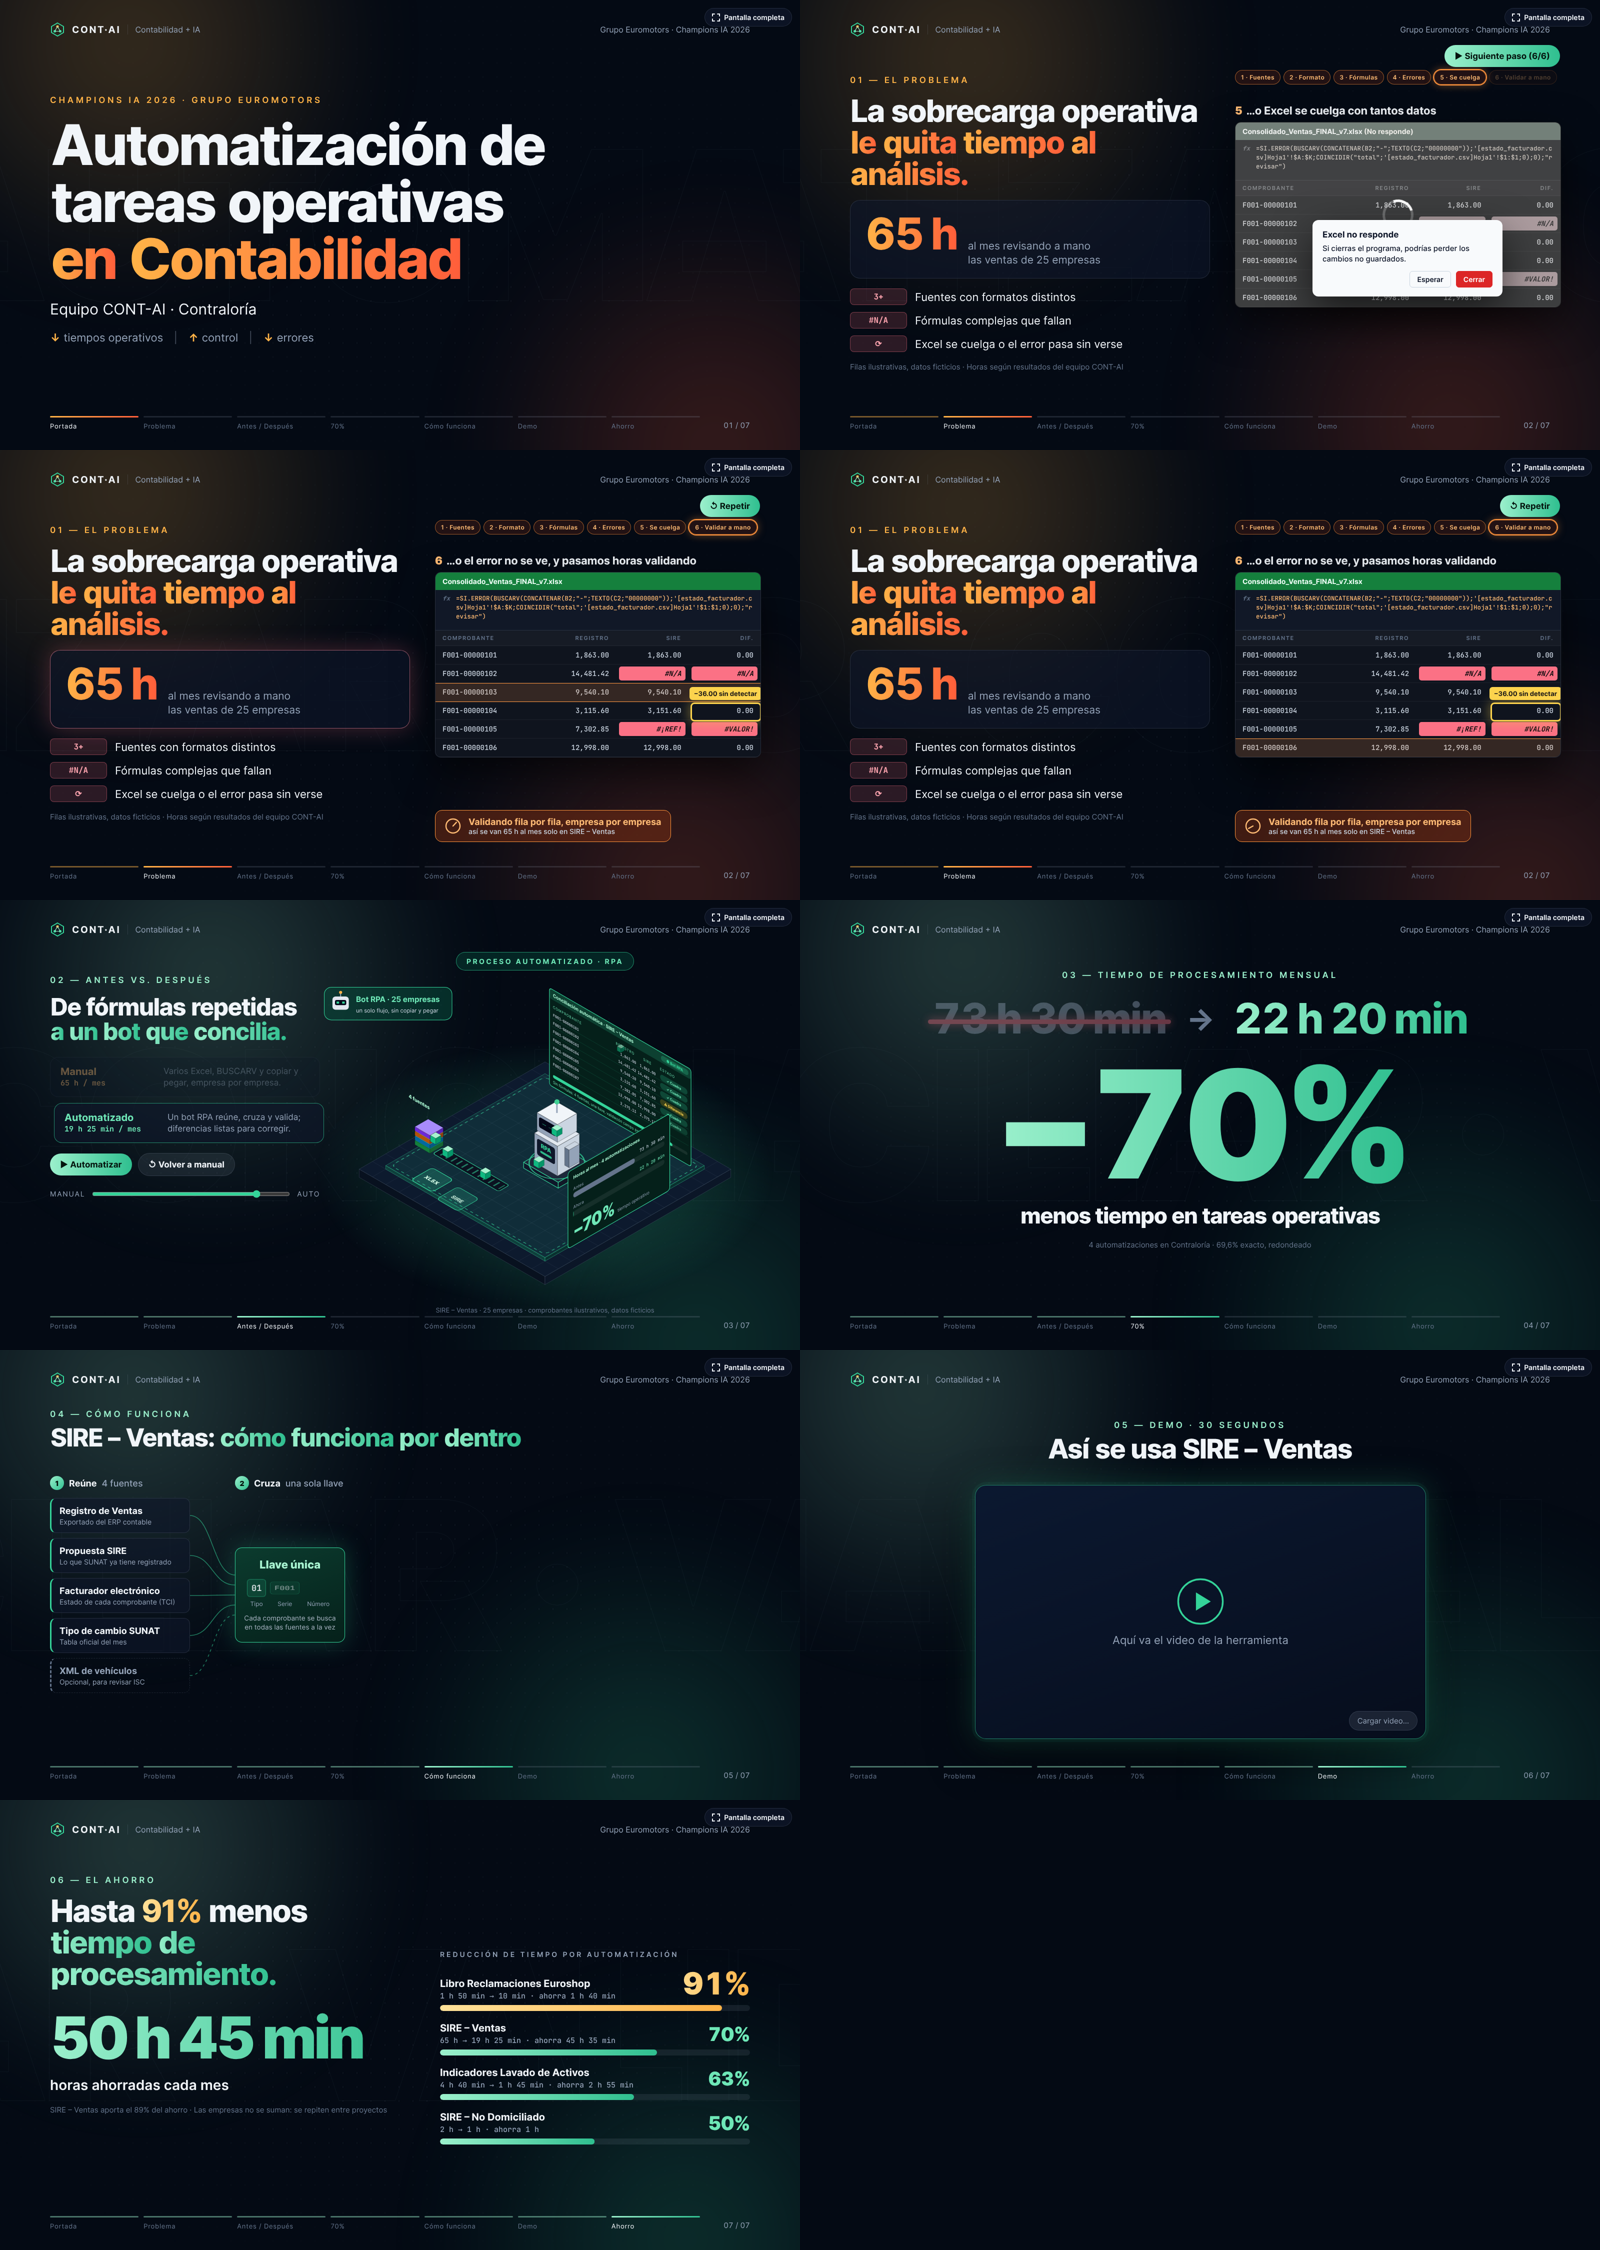
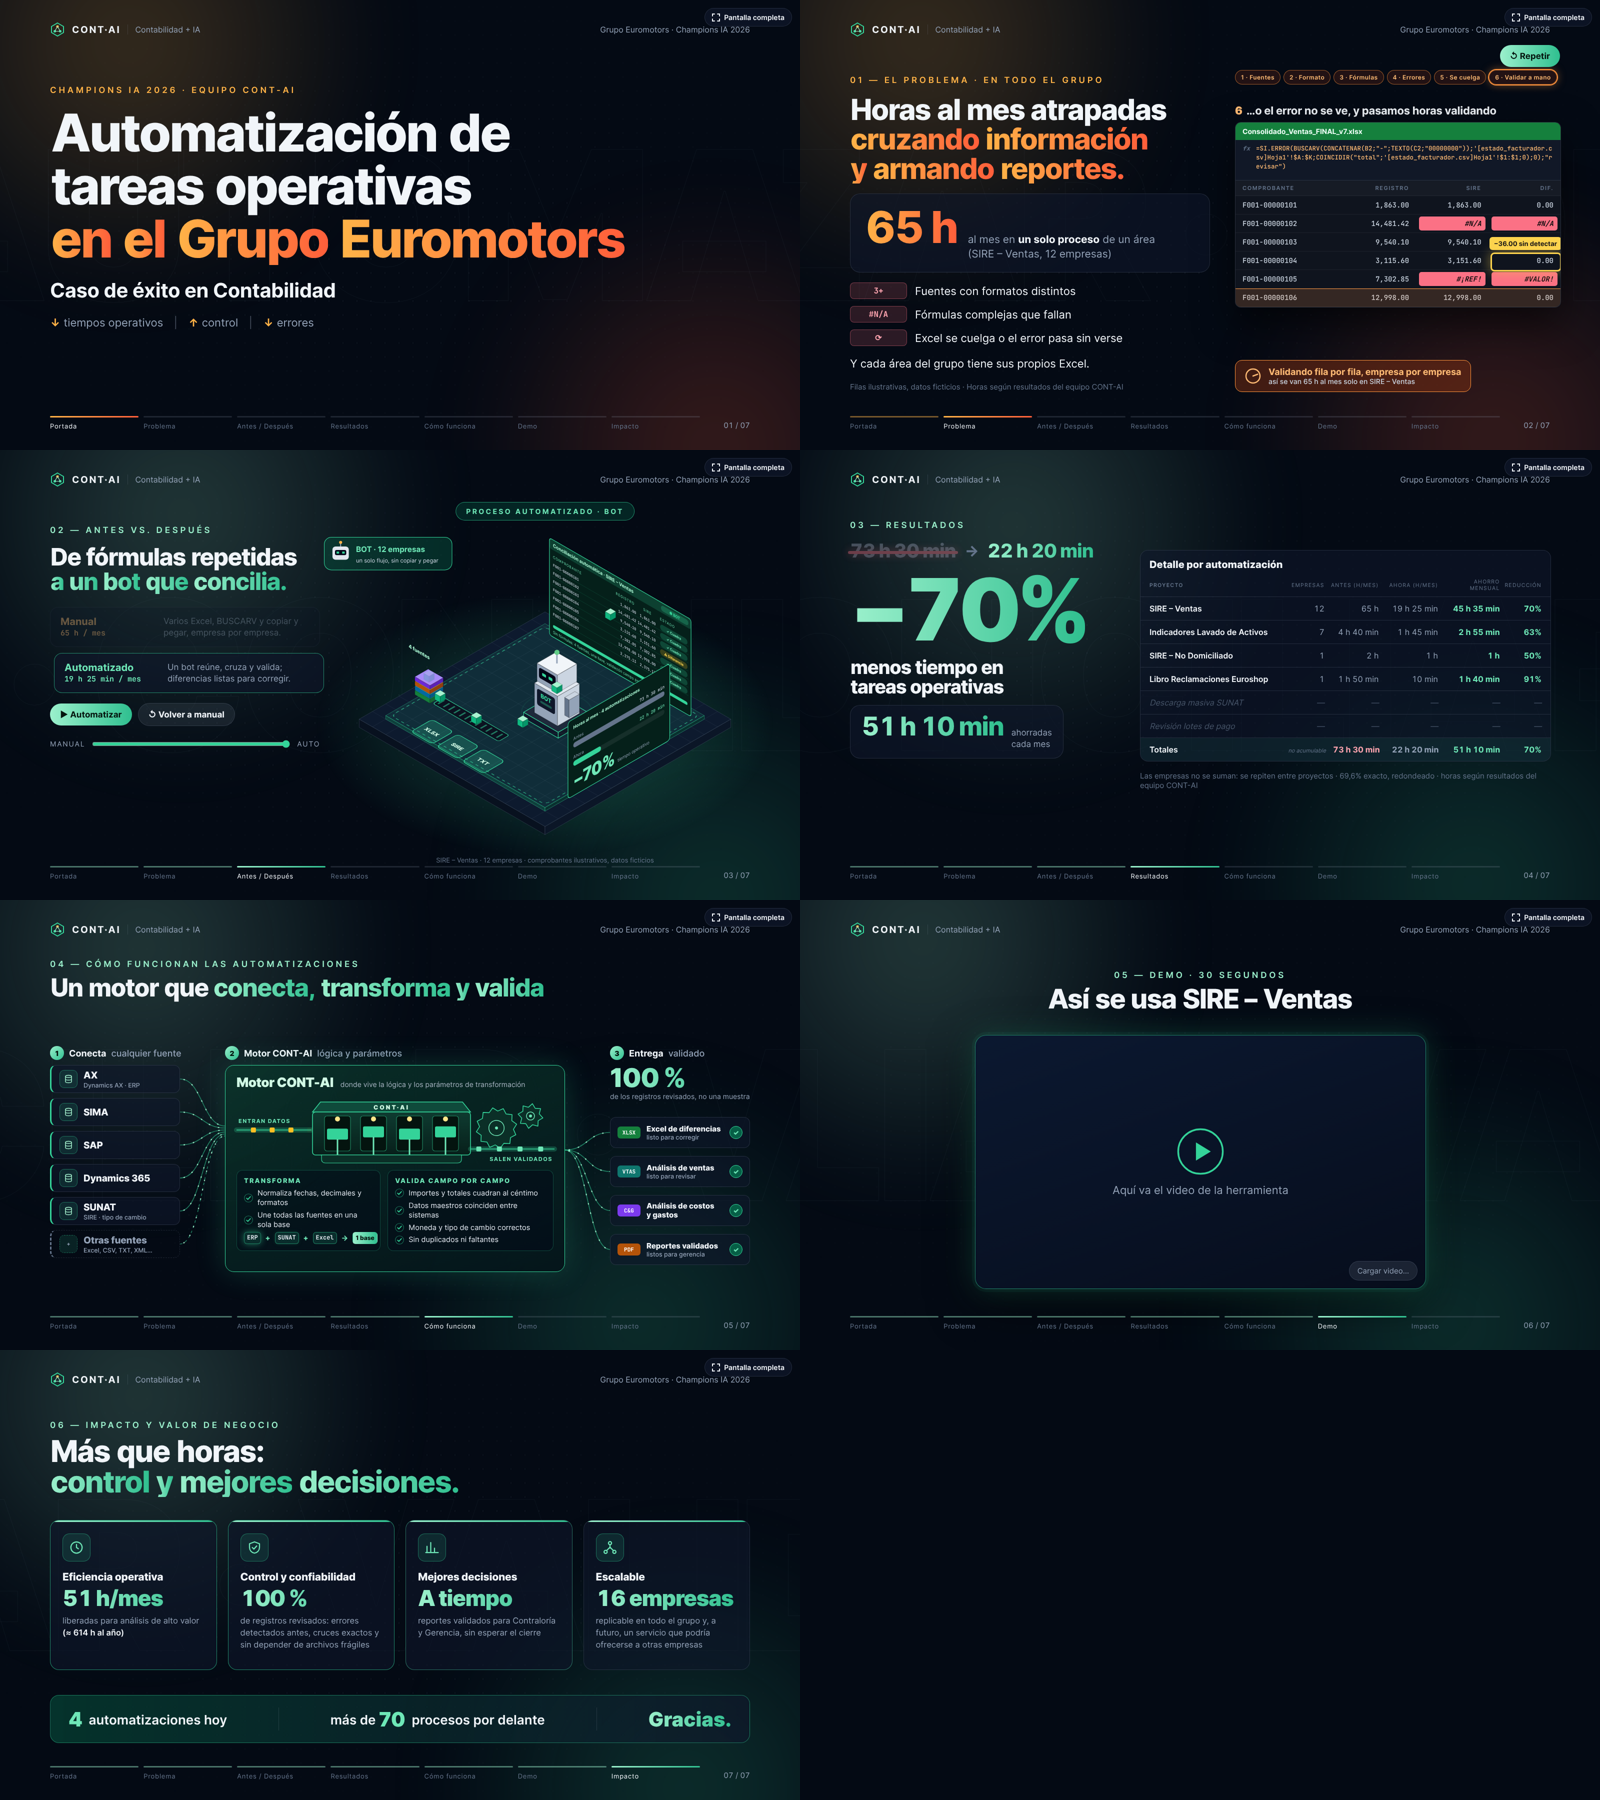
SIRE – Ventas covers 12 companies (was 25); refresh preview sheet
Claude-Session: https://claude.ai/code/session_012LRcS4pAuS3Fao9TR2Vr4a

diff --git a/presentacion/CONT-AI_Automatizacion.html b/presentacion/CONT-AI_Automatizacion.html
@@ -240,11 +240,11 @@ body{height:100%;margin:0;background:var(--bg);color:var(--ink);font-family:var(
  </section>
 
  <!-- 1 · Problema -->
- <section class="slide" data-k="prob" data-t="o" data-title="Problema" data-notes="[Pulsa → o el botón para avanzar cada paso de la historia; tras el paso 6, → pasa a la siguiente diapositiva] Este no es un problema solo de Contabilidad: todas las áreas del grupo trabajan sus datos en Excel. Les muestro un solo proceso, de una sola área: 65 horas al mes. Ahora piensen en todas las áreas. Así era antes. Recibimos reportes de varias fuentes, cada uno con su formato: fechas distintas, separadores distintos, decimales con coma o con punto. Primero les dábamos formato a mano; luego armábamos fórmulas largas para cruzarlos. A veces la fórmula fallaba, a veces Excel se colgaba, y lo peor: a veces el error no se veía y pasábamos horas validando fila por fila. Solo SIRE – Ventas son 65 horas al mes en 25 empresas. La sobrecarga operativa le quita tiempo al análisis. (25 s)">
+ <section class="slide" data-k="prob" data-t="o" data-title="Problema" data-notes="[Pulsa → o el botón para avanzar cada paso de la historia; tras el paso 6, → pasa a la siguiente diapositiva] Este no es un problema solo de Contabilidad: todas las áreas del grupo trabajan sus datos en Excel. Les muestro un solo proceso, de una sola área: 65 horas al mes. Ahora piensen en todas las áreas. Así era antes. Recibimos reportes de varias fuentes, cada uno con su formato: fechas distintas, separadores distintos, decimales con coma o con punto. Primero les dábamos formato a mano; luego armábamos fórmulas largas para cruzarlos. A veces la fórmula fallaba, a veces Excel se colgaba, y lo peor: a veces el error no se veía y pasábamos horas validando fila por fila. Solo SIRE – Ventas son 65 horas al mes en 12 empresas. La sobrecarga operativa le quita tiempo al análisis. (25 s)">
   <div class="col" style="left:100px;top:150px;width:720px;gap:20px">
    <p class="k it">01 — El problema · en todo el grupo</p>
    <h2 class="h2 kt" style="font-size:58px"><span>Horas al mes atrapadas</span><span class="acr">cruzando información</span><span class="acr">y armando reportes.</span></h2>
-   <div class="kpi it"><span class="v acr" data-count="65" data-from="0" data-suf=" h">65 h</span><span class="d">al mes en <b style="color:var(--ink)">un solo proceso</b> de un área<br>(SIRE – Ventas, 25 empresas)</span></div>
+   <div class="kpi it"><span class="v acr" data-count="65" data-from="0" data-suf=" h">65 h</span><span class="d">al mes en <b style="color:var(--ink)">un solo proceso</b> de un área<br>(SIRE – Ventas, 12 empresas)</span></div>
    <div class="li it"><div><em>3+</em>Fuentes con formatos distintos</div><div><em>#N/A</em>Fórmulas complejas que fallan</div><div><em>⟳</em>Excel se cuelga o el error pasa sin verse</div></div>
    <p class="p it" style="font-size:22px;color:var(--ink)">Y cada área del grupo tiene sus propios Excel.</p>
    <p class="foot it">Filas ilustrativas, datos ficticios · Horas según resultados del equipo CONT-AI</p>
@@ -289,7 +289,7 @@ body{height:100%;margin:0;background:var(--bg);color:var(--ink);font-family:var(
  </section>
 
  <!-- 2 · Revelado manual vs automatizado -->
- <section class="slide" data-k="reveal" data-t="o" data-title="Antes / Después" data-notes="Esto es lo que cambia. Antes: varios Excel por empresa, el mismo BUSCARV copiado una y otra vez, copiar y pegar 25 veces, errores #N/A y #¡REF!. Al automatizar, un bot toma las 4 fuentes, las cruza con una sola llave y valida campo por campo: queda un tablero limpio con cada comprobante conciliado y las diferencias listas para corregir. SIRE – Ventas pasa de 65 h a 19 h 25 min al mes. (Arrastra el control o pulsa Automatizar.) (30 s)">
+ <section class="slide" data-k="reveal" data-t="o" data-title="Antes / Después" data-notes="Esto es lo que cambia. Antes: varios Excel por empresa, el mismo BUSCARV copiado una y otra vez, copiar y pegar 12 veces, errores #N/A y #¡REF!. Al automatizar, un bot toma las 4 fuentes, las cruza con una sola llave y valida campo por campo: queda un tablero limpio con cada comprobante conciliado y las diferencias listas para corregir. SIRE – Ventas pasa de 65 h a 19 h 25 min al mes. (Arrastra el control o pulsa Automatizar.) (30 s)">
   <div class="col" style="left:100px;top:150px;width:540px;gap:20px">
    <p class="k it">02 — Antes vs. después</p>
    <h2 class="h2 kt" style="font-size:48px"><span>De fórmulas repetidas</span><span class="acg">a un bot que concilia.</span></h2>
@@ -302,7 +302,7 @@ body{height:100%;margin:0;background:var(--bg);color:var(--ink);font-family:var(
   </div>
   <div class="pill" id="pill">PROCESO MANUAL</div>
   <svg id="iso" viewBox="0 0 900 640" aria-label="Escena isométrica: proceso manual frente a automatizado"></svg>
-  <div class="cap2">SIRE – Ventas · 25 empresas · comprobantes ilustrativos, datos ficticios</div>
+  <div class="cap2">SIRE – Ventas · 12 empresas · comprobantes ilustrativos, datos ficticios</div>
  </section>
 
  <!-- 3 · Resultados: 70% + detalle por automatización -->
@@ -321,7 +321,7 @@ body{height:100%;margin:0;background:var(--bg);color:var(--ink);font-family:var(
   <div class="tbl2" id="tbl2">
    <p class="cap3">Detalle por automatización</p>
    <div class="tr th"><span>Proyecto</span><span>Empresas</span><span>Antes (h/mes)</span><span>Ahora (h/mes)</span><span>Ahorro mensual</span><span>Reducción</span></div>
-   <div class="tr"><span>SIRE – Ventas</span><span>25</span><span>65 h</span><span>19 h 25 min</span><span class="s2">45 h 35 min</span><span class="s2">70%</span></div>
+   <div class="tr"><span>SIRE – Ventas</span><span>12</span><span>65 h</span><span>19 h 25 min</span><span class="s2">45 h 35 min</span><span class="s2">70%</span></div>
    <div class="tr"><span>Indicadores Lavado de Activos</span><span>7</span><span>4 h 40 min</span><span>1 h 45 min</span><span class="s2">2 h 55 min</span><span class="s2">63%</span></div>
    <div class="tr"><span>SIRE – No Domiciliado</span><span>1</span><span>2 h</span><span>1 h</span><span class="s2">1 h</span><span class="s2">50%</span></div>
    <div class="tr"><span>Libro Reclamaciones Euroshop</span><span>1</span><span>1 h 50 min</span><span>10 min</span><span class="s2">1 h 40 min</span><span class="s2">91%</span></div>
@@ -551,10 +551,10 @@ function excel(par,type,x,y,z,w,h,name,fx,errAt){var g=mk('g',{},par),pl=plane(g
  /* status chip: manual counter + clock  /  bot */
  S.man=mk('g',{transform:'translate(18,24)'},svg);mk('rect',{x:0,y:0,width:250,height:64,rx:14,fill:'rgba(124,45,18,.45)',stroke:'#FB923C'},S.man);
  mk('circle',{cx:32,cy:32,r:18,fill:'none',stroke:'#FDBA74','stroke-width':2},S.man);S.hand=mk('line',{x1:32,y1:32,x2:32,y2:19,stroke:'#FDBA74','stroke-width':2.4,'stroke-linecap':'round'},S.man);mk('circle',{cx:32,cy:32,r:2.5,fill:'#FDBA74'},S.man);
- S.cnt=tx(S.man,62,29,'Empresa 01 / 25',{'font-size':16,'font-weight':700,fill:'#FDBA74','font-family':MONO});tx(S.man,62,49,'el mismo cruce, una y otra vez',{'font-size':11,fill:'#CBD5E1'});
+ S.cnt=tx(S.man,62,29,'Empresa 01 / 12',{'font-size':16,'font-weight':700,fill:'#FDBA74','font-family':MONO});tx(S.man,62,49,'el mismo cruce, una y otra vez',{'font-size':11,fill:'#CBD5E1'});
  S.bot=mk('g',{transform:'translate(18,24)',opacity:0},svg);mk('rect',{x:0,y:0,width:250,height:64,rx:14,fill:'rgba(6,78,59,.5)',stroke:'#34D399'},S.bot);
  mk('rect',{x:16,y:18,width:32,height:26,rx:6,fill:'#E2E8F0'},S.bot);mk('rect',{x:21,y:25,width:22,height:10,rx:3,fill:'#020617'},S.bot);mk('rect',{x:24,y:28,width:5,height:4,fill:'#34D399'},S.bot);mk('rect',{x:35,y:28,width:5,height:4,fill:'#34D399'},S.bot);mk('line',{x1:32,y1:18,x2:32,y2:11,stroke:'#94A3B8','stroke-width':2},S.bot);mk('circle',{cx:32,cy:10,r:3,fill:'#FFB347'},S.bot);
- tx(S.bot,62,29,'BOT · 25 empresas',{'font-size':15,'font-weight':700,fill:'#6EE7B7'});tx(S.bot,62,49,'un solo flujo, sin copiar y pegar',{'font-size':11,fill:'#CBD5E1'});
+ tx(S.bot,62,29,'BOT · 12 empresas',{'font-size':15,'font-weight':700,fill:'#6EE7B7'});tx(S.bot,62,49,'un solo flujo, sin copiar y pegar',{'font-size':11,fill:'#CBD5E1'});
  /* error badges */
  S.badges=[];[['#N/A',P(110,40,170)],['#¡REF!',P(345,40,190)],['¿cuadra?',P(75,330,95)],['#VALOR!',P(320,262,140)],['Duplicado',P(195,375,48)]].forEach(function(b){
   var w=mk('g',{transform:'translate('+b[1][0].toFixed(1)+','+b[1][1].toFixed(1)+')'},svg),bad=mk('g',{},w),pu=mk('g',{},bad),bw=18+b[0].length*8;
@@ -578,7 +578,7 @@ if(G){
   G.to(S.ants,{attr:{'stroke-dashoffset':-10},duration:.5,repeat:-1,ease:'none'});
   G.to(S.arrP,{attr:{'stroke-dashoffset':-24},duration:.8,repeat:-1,ease:'none'});
   G.to(S.hand,{rotation:360,svgOrigin:'32 32',duration:2.4,repeat:-1,ease:'none'});
-  var n=1,steps=[[S.cW2,'Ctrl+C'],[S.cM,'Ctrl+V'],[S.cW1,'Ctrl+C'],[S.cM,'Ctrl+V'],[S.cW3,'Ctrl+C'],[S.cW1,'Ctrl+V']],ct=G.timeline({repeat:-1,onRepeat:function(){n=n%25+1;S.cnt.textContent='Empresa '+String(n).padStart(2,'0')+' / 25'}});
+  var n=1,steps=[[S.cW2,'Ctrl+C'],[S.cM,'Ctrl+V'],[S.cW1,'Ctrl+C'],[S.cM,'Ctrl+V'],[S.cW3,'Ctrl+C'],[S.cW1,'Ctrl+V']],ct=G.timeline({repeat:-1,onRepeat:function(){n=n%12+1;S.cnt.textContent='Empresa '+String(n).padStart(2,'0')+' / 12'}});
   G.set(S.cur,{x:S.cW2[0],y:S.cW2[1]});
   steps.forEach(function(s,i){ct.to(S.cur,{x:s[0][0],y:s[0][1],duration:.55,ease:'power2.inOut'}).call(function(){S.curTxt.textContent=s[1]}).to(S.curIn,{scale:.8,duration:.08,yoyo:true,repeat:1,transformOrigin:'0 0'}).to({},{duration:.18})});
   G.to(S.belt,{attr:{'stroke-dashoffset':-24},duration:.6,repeat:-1,ease:'none'});
